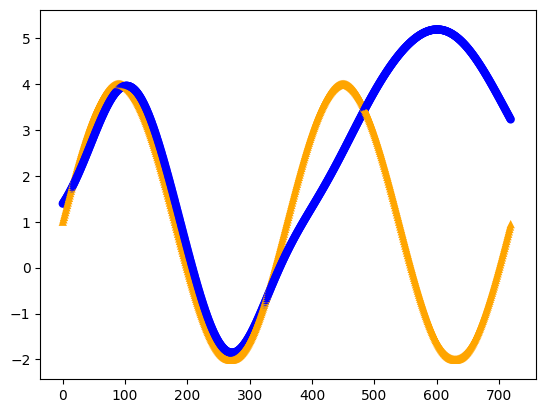
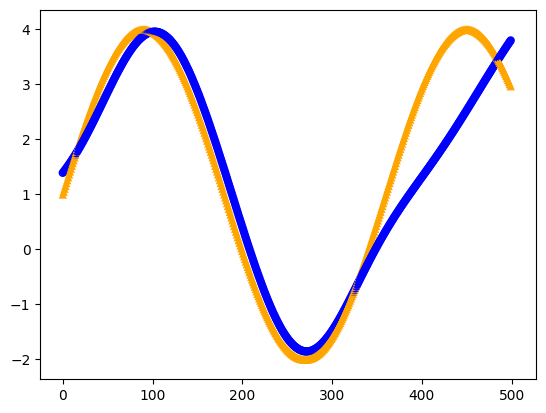
figuras t6

diff --git a/T6_2/Analisys_regression.py b/T6_2/Analisys_regression.py
@@ -75,10 +75,10 @@ plt.show()
 
 max = oExp11.experimentResults[0].normalize_between[0, 0]
 min = oExp11.experimentResults[0].normalize_between[0, 1]
-random_matrix = np.arange(720)
+random_matrix = np.arange(500)
 random_matrix = (random_matrix - min) / (max - min)
 y_pred = oData11.model.predict(random_matrix)
-for i in range(720):
+for i in range(500):
     plt.scatter(i, y_pred[i], marker=MARKER[0], edgecolors='none',
                 color=COLORS[0])
     plt.scatter(i, 3 * np.sin(i * np.pi / 180) + 1, marker=MARKER[1], edgecolors='none', color=COLORS[1])
